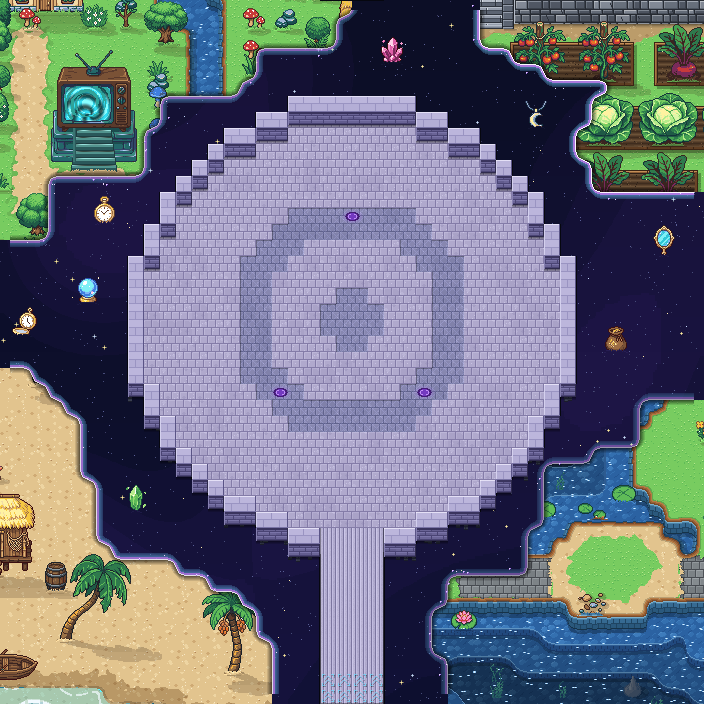
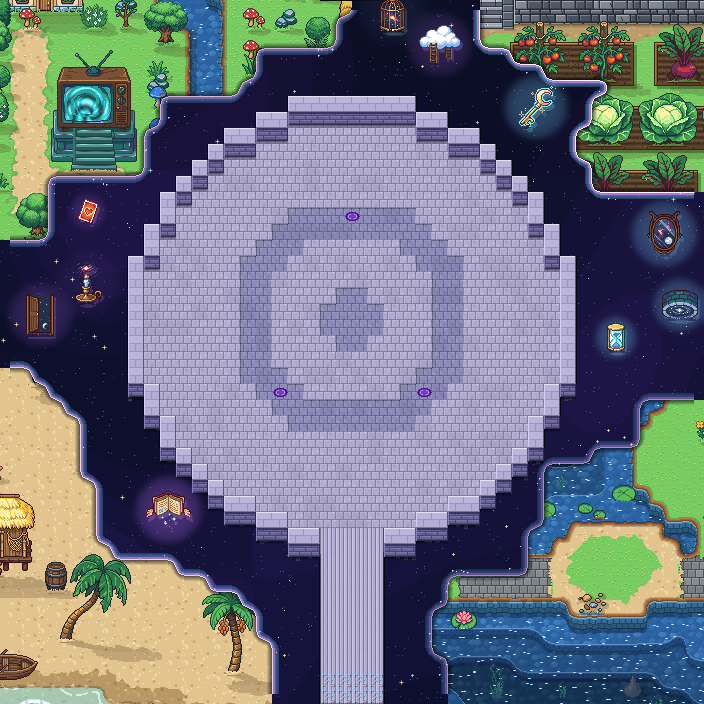
K33: surreale Schwebeobjekte (PixelLab k33_surreal: zerfliessende Uhr, Fluegelauge, Sternentuer, Galaxie-Tasse, Wolke mit Leitern, Treppe ins Nichts ...), ohne Wiederholung, teils kopfueber, mit pulsierendem Schimmer und Nachbild
Claude-Session: https://claude.ai/code/session_01SaoYHKhnro4LFcPJqjaPsq

diff --git a/tools/pixellab_objekte.py b/tools/pixellab_objekte.py
@@ -1582,7 +1582,9 @@ def herunterladen(oid, d):
 
 
 def speichern(gruppe, ims, ids):
-    if gruppe.startswith('k32_'):
+    if gruppe.startswith('k33_'):
+        ziel = os.path.join(ROOT, 'assets', 'objekte', 'karte33', gruppe[4:])
+    elif gruppe.startswith('k32_'):
         ziel = os.path.join(ROOT, 'assets', 'objekte', 'karte32', gruppe[4:])
     elif gruppe.startswith('k31_'):
         ziel = os.path.join(ROOT, 'assets', 'objekte', 'karte31', gruppe[4:])
@@ -2047,6 +2049,12 @@ OBJEKTGRUPPEN_K21 = {   # Karte 21 (Digi-Egg Valley), Stil wie Karte 20 / Karte 
         'tall slender gothic castle wall tower: round dark grey stone tower about 2 tiles wide and 6 tiles tall, narrow arched windows glowing faint violet, a tall pointed dark slate spire roof with a small purple pennant on top, stone base, ' + FR14,
         'tall slender gothic stone watchtower for a castle wall: dark grey brick round tower, decorative ring of stones below a very tall pointed slate cone roof, two narrow purple glowing slit windows, ' + FR14,
     ]},
+    'k33_surreal': {'size': 48, 'items': [   # Nutzer: schwebende Objekte surrealer
+        'surreal melting golden pocket watch draped and dripping like soft cheese, floating in space, dreamlike, classic 2D handheld RPG style, transparent background',
+        'surreal floating eyeball with small white feathered wings and a violet iris, dreamlike, classic 2D handheld RPG style, transparent background',
+        'surreal lone wooden door standing in nothing, half open with a starry night sky inside, dreamlike, classic 2D handheld RPG style, transparent background',
+        'surreal porcelain teacup tilted in the air pouring out a swirling purple galaxy instead of tea, dreamlike, classic 2D handheld RPG style, transparent background',
+    ]},
     'k31_muell': {'size': 32, 'items': [
         'small pile of fallen golden yellow ginkgo leaves lying flat on the ground, seen from above, classic 2D handheld RPG style',
         'small pile of fallen brown and orange autumn leaves lying flat on the ground, seen from above, classic 2D handheld RPG style',
@@ -2206,8 +2214,8 @@ def erzeugen(gruppe):
         d = warte(oid)
         speichern(gruppe, *herunterladen(oid, d))
         return
-    if gruppe.startswith(('k20_', 'k21_', 'k23_', 'k24_', 'k25_', 'k26_', 'k27_', 'k28_', 'k29_', 'k30_', 'k31_', 'k32_')):
-        g = (OBJEKTGRUPPEN_K21 if gruppe.startswith(('k21_', 'k23_', 'k24_', 'k25_', 'k26_', 'k27_', 'k28_', 'k29_', 'k30_', 'k31_', 'k32_')) else OBJEKTGRUPPEN_K20)[gruppe]
+    if gruppe.startswith(('k20_', 'k21_', 'k23_', 'k24_', 'k25_', 'k26_', 'k27_', 'k28_', 'k29_', 'k30_', 'k31_', 'k32_', 'k33_')):
+        g = (OBJEKTGRUPPEN_K21 if gruppe.startswith(('k21_', 'k23_', 'k24_', 'k25_', 'k26_', 'k27_', 'k28_', 'k29_', 'k30_', 'k31_', 'k32_', 'k33_')) else OBJEKTGRUPPEN_K20)[gruppe]
         req = {'description': STIL, 'size': g['size'], 'view': 'top-down',
                'item_descriptions': [it + '. ' + STIL for it in g['items']],
                'target_palette': {'colors': PALETTE, 'name': 'Karte01 handheld'}}

diff --git a/tools/karte33_objekte.py b/tools/karte33_objekte.py
@@ -14,7 +14,8 @@ ROOT = os.path.join(os.path.dirname(os.path.abspath(__file__)), '..')
 KARTE = os.path.join(ROOT, 'maps', 'karte33')
 OBJ = os.path.join(ROOT, 'assets', 'objekte', 'karte33')
 T = 16
-TRAUM = ['karte32/traum/%02d' % i for i in (0, 63, 33, 1, 2, 3, 7, 62, 9, 60, 28, 54, 47, 51, 38, 30, 5, 27, 0, 1, 2)]
+TRAUM = ['karte32/traum/%02d' % i for i in (0, 1, 2, 7, 9, 51, 38)]
+SURREAL = ['karte33/surreal/%02d' % i for i in (0, 1, 2, 3, 4, 5, 6, 7, 8, 10, 11, 13, 14, 15)]   # Nutzer: surrealer
 
 
 def main():
@@ -31,22 +32,36 @@ def main():
         ImageDraw.Draw(riss).polygon([(x - 0.5, y - 0.5) for (x, y) in [tuple(p) for p in r['kante']] + ecke], fill=255)
     rissnah = np.array(riss.filter(ImageFilter.MaxFilter(5))) > 0
     rnd = random.Random(3333)
-    objekte, gesetzt = [], []
+    objekte, gesetzt, vorrat = [], [], []
     for _ in range(8000):
         if len(gesetzt) >= 30:
             break
         tx, ty = rnd.randrange(1, cols - 1), rnd.randrange(1, rows - 1)
         if not leer[max(0, ty - 2):ty + 3, max(0, tx - 2):tx + 3].all():
             continue
-        if any(abs(tx - x) + abs(ty - y) < 6 for (x, y) in gesetzt):
+        if any(abs(tx - x) + abs(ty - y) < 5 for (x, y) in gesetzt):
             continue
         if rissnah[ty, tx]:
             continue
-        name = rnd.choice(TRAUM)
-        ziel = 'fremd/' + name.replace('/', '-') + '.png'
-        if not os.path.exists(os.path.join(OBJ, ziel)):
-            shutil.copy(os.path.join(ROOT, 'assets', 'objekte', name + '.png'), os.path.join(OBJ, ziel))
+        if not vorrat:
+            vorrat = SURREAL[:] + rnd.sample(TRAUM, 3)
+            rnd.shuffle(vorrat)
+        name = vorrat.pop()                                           # ohne Wiederholung, solange der Vorrat reicht
+        if name.startswith('karte33/'):
+            ziel = name[len('karte33/'):] + '.png'
+        else:
+            ziel = 'fremd/' + name.replace('/', '-') + '.png'
+            if not os.path.exists(os.path.join(OBJ, ziel)):
+                shutil.copy(os.path.join(ROOT, 'assets', 'objekte', name + '.png'), os.path.join(OBJ, ziel))
         sp = Image.open(os.path.join(OBJ, ziel))
+        if rnd.random() < 0.25:                                       # surreal: manches schwebt kopfueber
+            sp = sp.transpose(Image.FLIP_TOP_BOTTOM)
+            ziel = ziel[:-4] + '_kopf.png'
+            sp.save(os.path.join(OBJ, ziel))
+        elif rnd.random() < 0.4:
+            sp = sp.transpose(Image.FLIP_LEFT_RIGHT)
+            ziel = ziel[:-4] + '_m.png'
+            sp.save(os.path.join(OBJ, ziel))
         bb = sp.getbbox()
         cx, fy = tx * T + 8, (ty + 1) * T - 1
         objekte.append({'datei': ziel, 'basis': name, 'x': cx - (bb[0] + bb[2]) // 2, 'y': fy - (bb[3] - 1),

diff --git a/tools/karte33_bauen.py b/tools/karte33_bauen.py
@@ -197,6 +197,32 @@ def risse(a, lay, frame, land):
     return gesamt
 
 
+def traumschein(img, objs, cache, frame):
+    """Surreale Schwebeobjekte: weicher, pulsierender lila/cyan Schimmer hinter jedem Objekt und ein schwaches,
+    verschobenes Nachbild (Geisterbild) darunter - vor dem eigentlichen Objekt gezeichnet."""
+    from PIL import ImageDraw, ImageFilter
+    f = frame or 0
+    glow = Image.new('RGBA', img.size, (0, 0, 0, 0))
+    gd = ImageDraw.Draw(glow)
+    for i, o in enumerate(objs):
+        if not o.get('schwebend'):
+            continue
+        sp = cache[o['datei']]
+        bb = sp.getbbox()
+        cx, cy = o['x'] + (bb[0] + bb[2]) / 2, o['y'] + (bb[1] + bb[3]) / 2
+        r = max(bb[2] - bb[0], bb[3] - bb[1]) * 0.75
+        p = 0.6 + 0.4 * math.sin(2 * math.pi * (f + o.get('phase', 0)) / N_FRAMES)
+        farbe = (190, 120, 255) if i % 2 else (120, 210, 255)
+        for k_, al in ((1.05, 52), (0.7, 72)):
+            gd.ellipse((cx - r * k_, cy - r * k_, cx + r * k_, cy + r * k_), fill=farbe + (int(al * p),))
+        geist = sp.copy()
+        a_ = np.array(geist).astype(np.float32)
+        a_[..., :3] = a_[..., :3] * 0.4 + np.array(farbe, np.float32) * 0.6
+        a_[..., 3] *= 0.28
+        img.alpha_composite(Image.fromarray(a_.astype(np.uint8)), (int(o['x']) + 2, int(o['y']) + 3 + (f + o.get('phase', 0)) % 2))
+    img.alpha_composite(glow.filter(ImageFilter.GaussianBlur(4)))
+
+
 def bauen(frame=None, speichern=True):
     lay = json.load(open(os.path.join(KARTE, 'layout.json')))
     cols, rows = lay['groesse']
@@ -243,6 +269,7 @@ def bauen(frame=None, speichern=True):
                     o['y'] += (0, -1, -1, 0)[(frame + o.get('phase', 0)) % 4]
         cache = {o['datei']: Image.open(os.path.join(OBJ, o['datei'])).convert('RGBA') for o in objs}
         k8.schatten_ebene(img, [o for o in objs if not o.get('schwebend') and not o.get('kein_schatten')], cache, lvl)
+        traumschein(img, objs, cache, frame)
         k4.objekte_zeichnen(img, objs, cache, np.zeros((Hp, Wp), bool), frame)
         k4.animieren(img, objs, cache, frame or 0, ruhig=frame is None)
     if speichern and frame is None:
